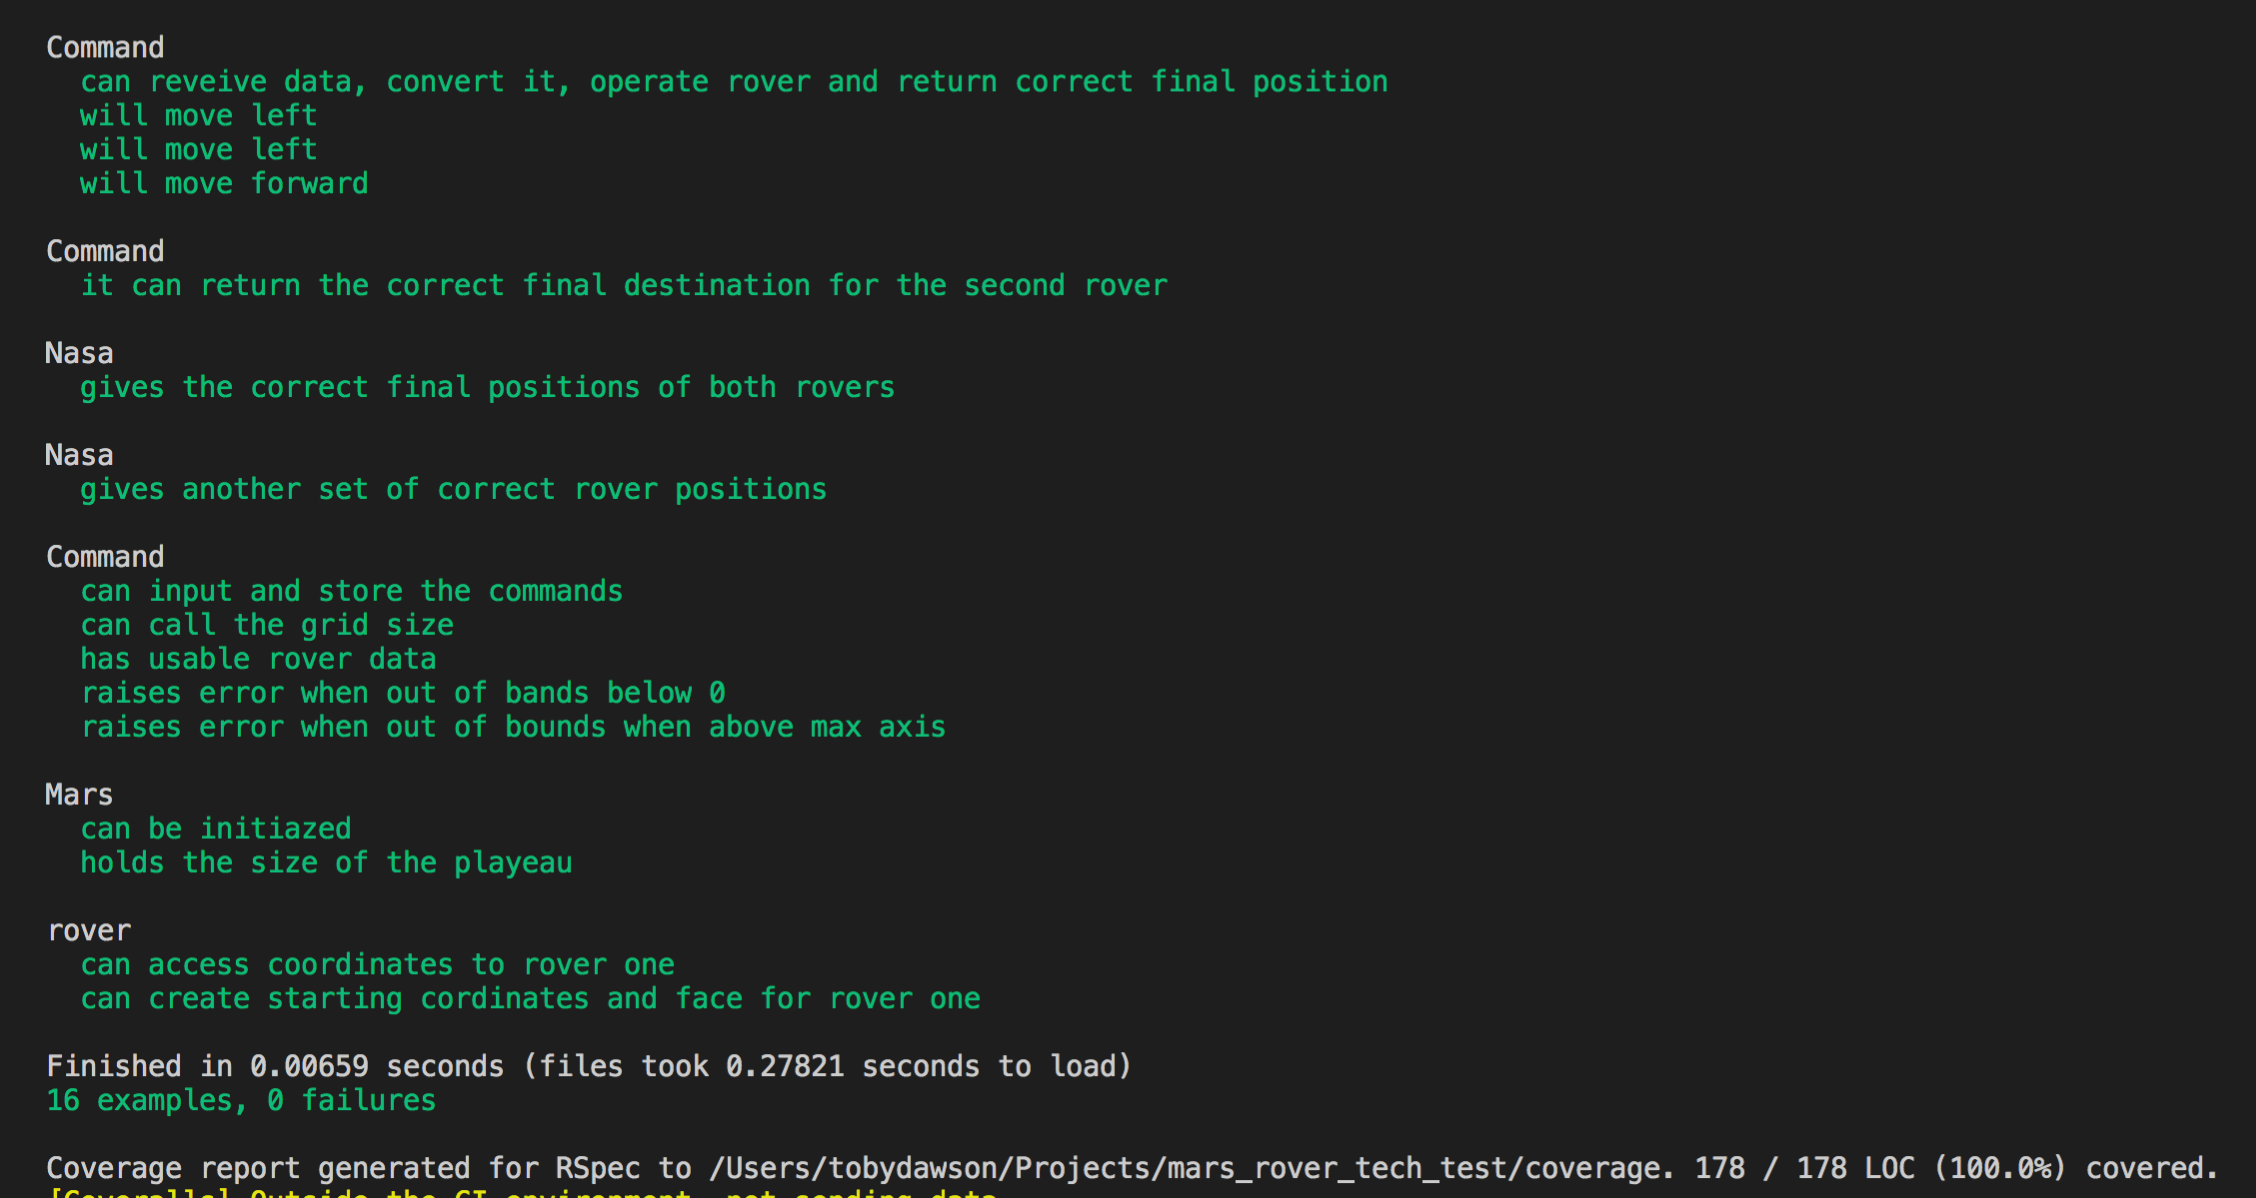
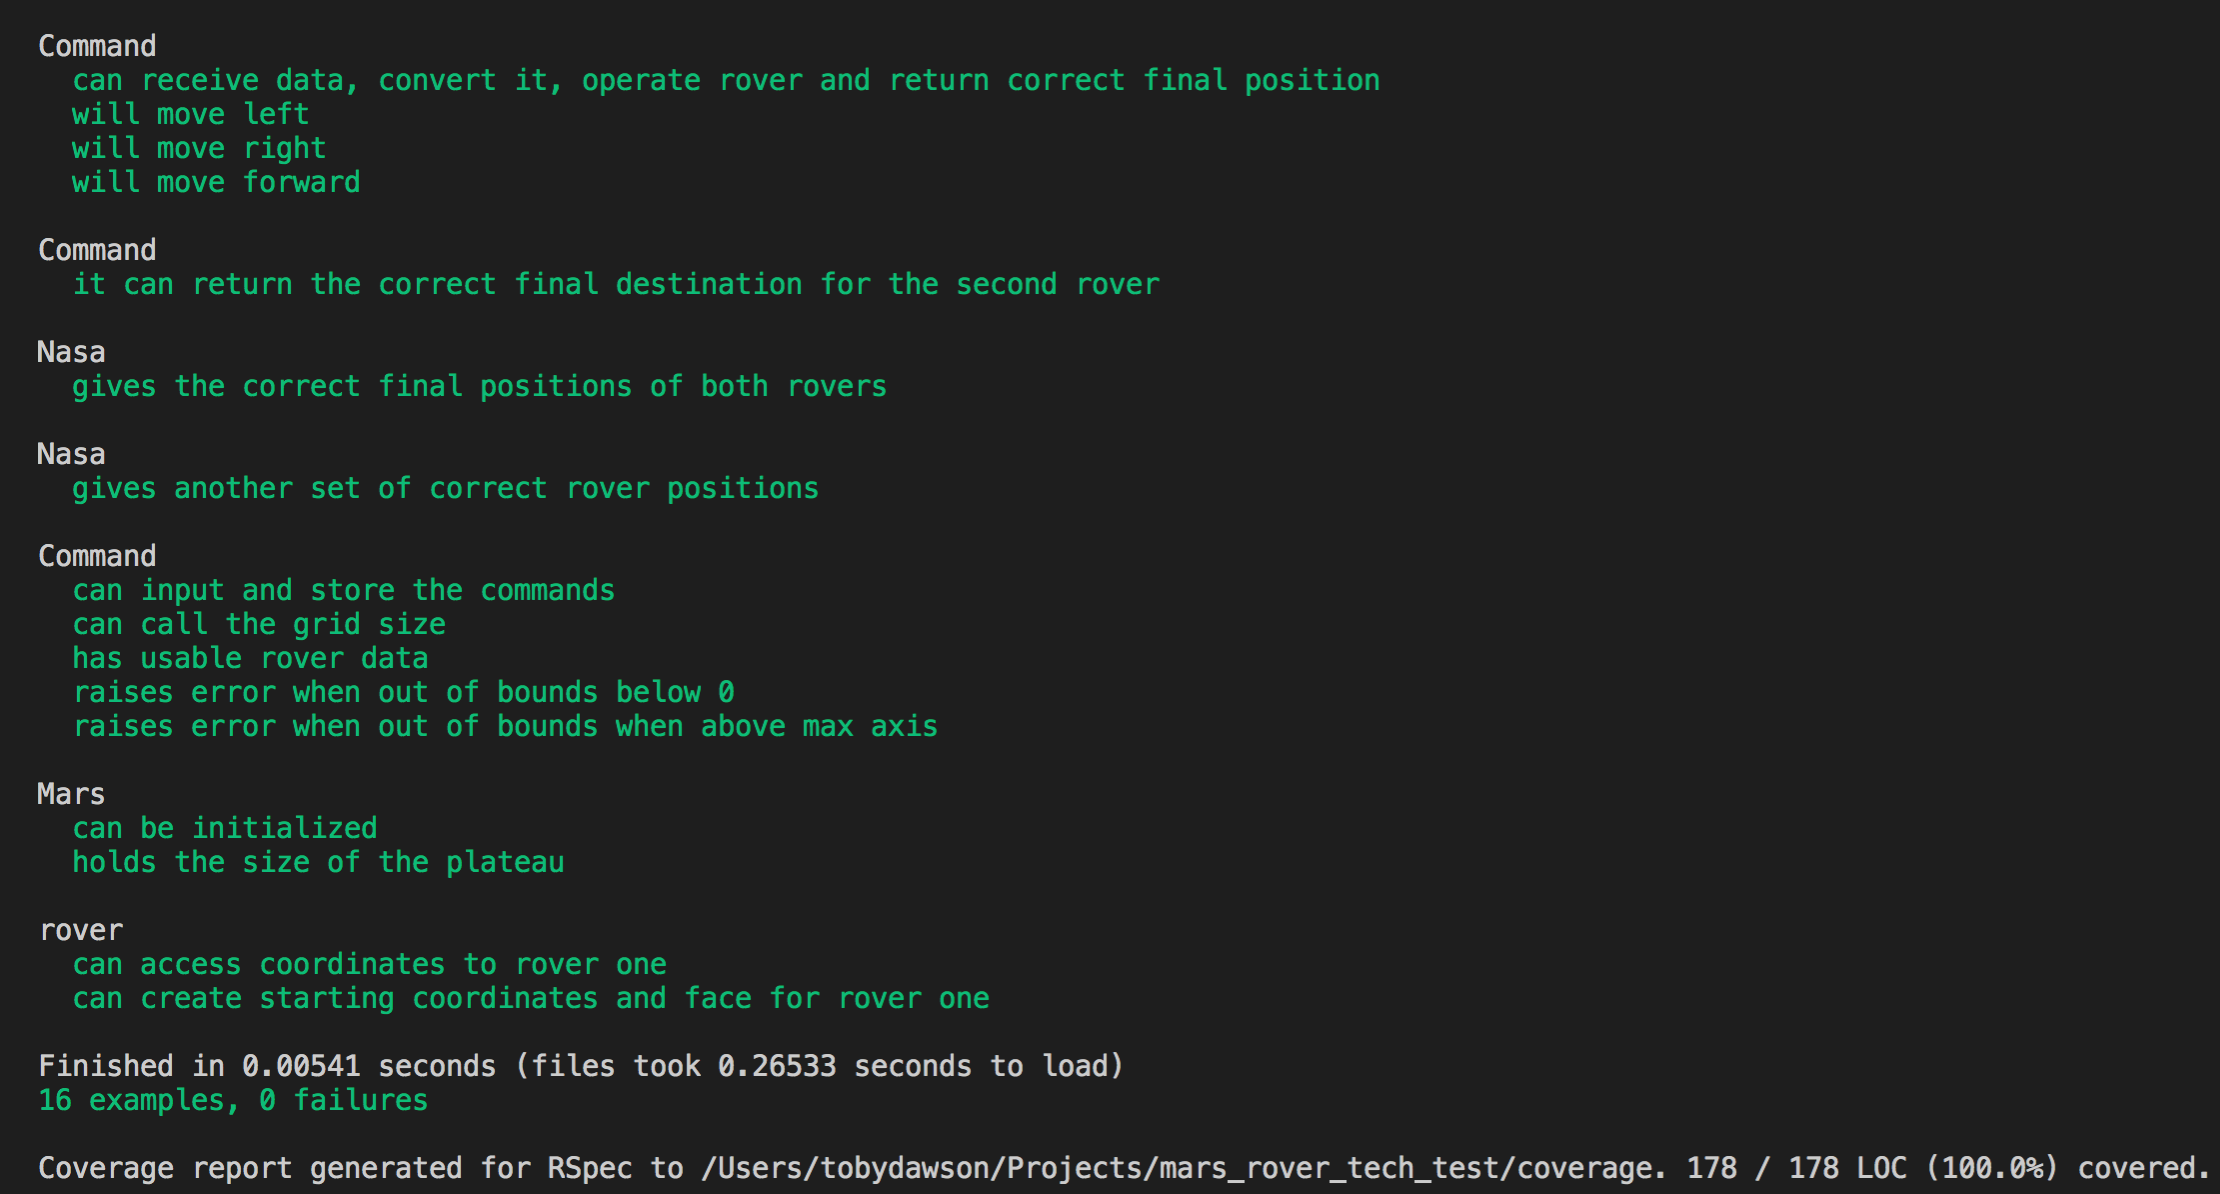
refactored

diff --git a/coverage/index.html b/coverage/index.html
@@ -14,7 +14,7 @@
       <img src="./assets/0.10.2/loading.gif" alt="loading"/>
     </div>
     <div id="wrapper" style="display:none;">
-      <div class="timestamp">Generated <abbr class="timeago" title="2020-08-24T11:30:14+01:00">2020-08-24T11:30:14+01:00</abbr></div>
+      <div class="timestamp">Generated <abbr class="timeago" title="2020-08-24T14:04:45+01:00">2020-08-24T14:04:45+01:00</abbr></div>
       <ul class="group_tabs"></ul>
 
       <div id="content">
@@ -1113,7 +1113,7 @@
         <li class="covered" data-hits="1" data-linenumber="9">
           <span class="hits">1</span>
           
-          <code class="ruby">  it &#39;can reveive data, convert it, operate rover and return correct final position&#39; do</code>
+          <code class="ruby">  it &#39;can receive data, convert it, operate rover and return correct final position&#39; do</code>
         </li>
       
         <li class="covered" data-hits="1" data-linenumber="10">
@@ -1215,7 +1215,7 @@
         <li class="covered" data-hits="1" data-linenumber="26">
           <span class="hits">1</span>
           
-          <code class="ruby">  it &#39;will move left&#39; do</code>
+          <code class="ruby">  it &#39;will move right&#39; do</code>
         </li>
       
         <li class="covered" data-hits="1" data-linenumber="27">
@@ -1775,7 +1775,7 @@
         <li class="covered" data-hits="1" data-linenumber="28">
           <span class="hits">1</span>
           
-          <code class="ruby">  it &#39;raises error when out of bands below 0 &#39; do</code>
+          <code class="ruby">  it &#39;raises error when out of bounds below 0 &#39; do</code>
         </li>
       
         <li class="covered" data-hits="1" data-linenumber="29">
@@ -1926,7 +1926,7 @@
         <li class="covered" data-hits="1" data-linenumber="10">
           <span class="hits">1</span>
           
-          <code class="ruby">  it &#39;can be initiazed&#39; do</code>
+          <code class="ruby">  it &#39;can be initialized&#39; do</code>
         </li>
       
         <li class="covered" data-hits="1" data-linenumber="11">
@@ -1950,7 +1950,7 @@
         <li class="covered" data-hits="1" data-linenumber="14">
           <span class="hits">1</span>
           
-          <code class="ruby">  it &#39;holds the size of the playeau&#39; do</code>
+          <code class="ruby">  it &#39;holds the size of the plateau&#39; do</code>
         </li>
       
         <li class="covered" data-hits="1" data-linenumber="15">
@@ -2077,7 +2077,7 @@
         <li class="covered" data-hits="1" data-linenumber="13">
           <span class="hits">1</span>
           
-          <code class="ruby">  it &#39;can create starting cordinates and face for rover one&#39; do</code>
+          <code class="ruby">  it &#39;can create starting coordinates and face for rover one&#39; do</code>
         </li>
       
         <li class="covered" data-hits="1" data-linenumber="14">

diff --git a/spec/feature/command_feature_spec.rb b/spec/feature/command_feature_spec.rb
@@ -6,7 +6,7 @@ describe Command do
     @command = Command.new("5 5", "1 2 N", "LMLMLMLMM")
   end  
 
-  it 'can reveive data, convert it, operate rover and return correct final position' do
+  it 'can receive data, convert it, operate rover and return correct final position' do
     @command.mars
     @command.rover_coordinates
     @command.process("LMLMLMLMM")
@@ -23,7 +23,7 @@ describe Command do
     expect(@command.face).to eq("W")
   end
 
-  it 'will move left' do
+  it 'will move right' do
     @command.mars
     @command.rover_coordinates
     @command.process("R")

diff --git a/spec/unit/mars_spec.rb b/spec/unit/mars_spec.rb
@@ -7,11 +7,11 @@ describe Mars do
     @command = Command.new("5 5", "1 2 N", "LMLMLMLMM")
   end
 
-  it 'can be initiazed' do
+  it 'can be initialized' do
     expect(@mars).to be_an_instance_of(Mars)
   end
 
-  it 'holds the size of the playeau' do
+  it 'holds the size of the plateau' do
     expect(@mars.max_x).to eq(5)
     expect(@mars.max_y).to eq(5)
   end

diff --git a/spec/unit/command_spec.rb b/spec/unit/command_spec.rb
@@ -25,7 +25,7 @@ describe Command do
     expect(@command.face).to eq("N")
   end
 
-  it 'raises error when out of bands below 0 ' do
+  it 'raises error when out of bounds below 0 ' do
     @command.mars
     @command.rover_coordinates
     expect { @command.process("LMMMMMMM") }.to raise_error("Rover out in space")

diff --git a/spec/unit/rover_spec.rb b/spec/unit/rover_spec.rb
@@ -10,7 +10,7 @@ describe 'rover' do
     expect(@rover.rover).to eq(["1", "2", "N"])
   end
 
-  it 'can create starting cordinates and face for rover one' do
+  it 'can create starting coordinates and face for rover one' do
     @rover.deploy
     expect(@rover.x).to eq(1)
     expect(@rover.y).to eq(2)
